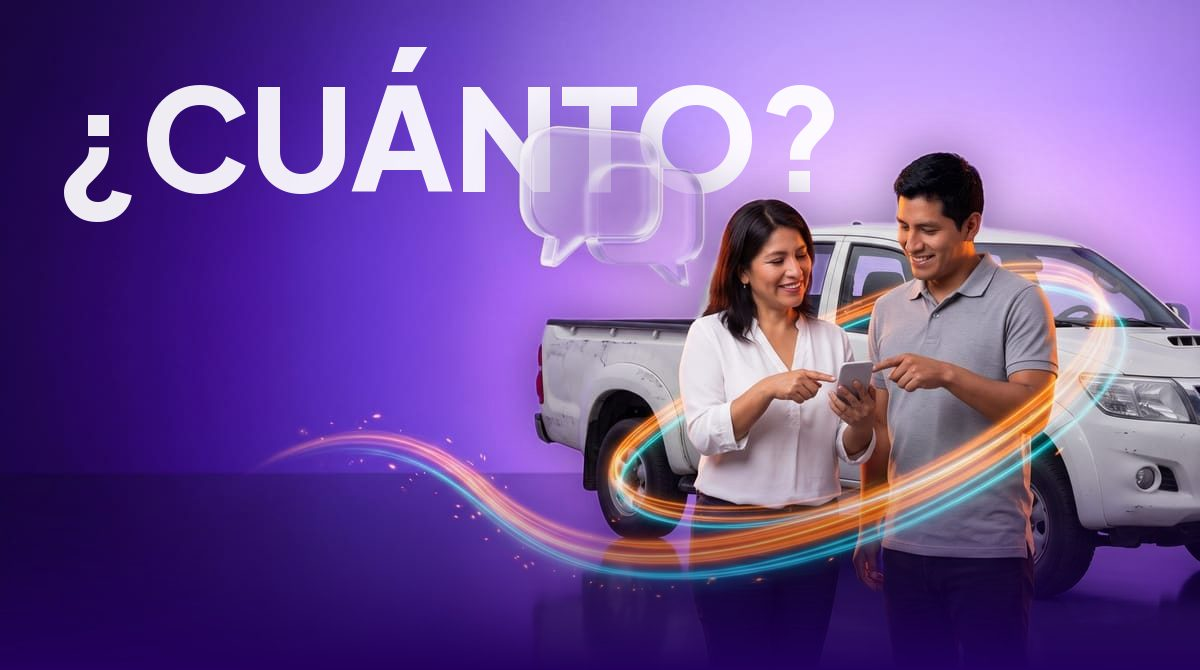
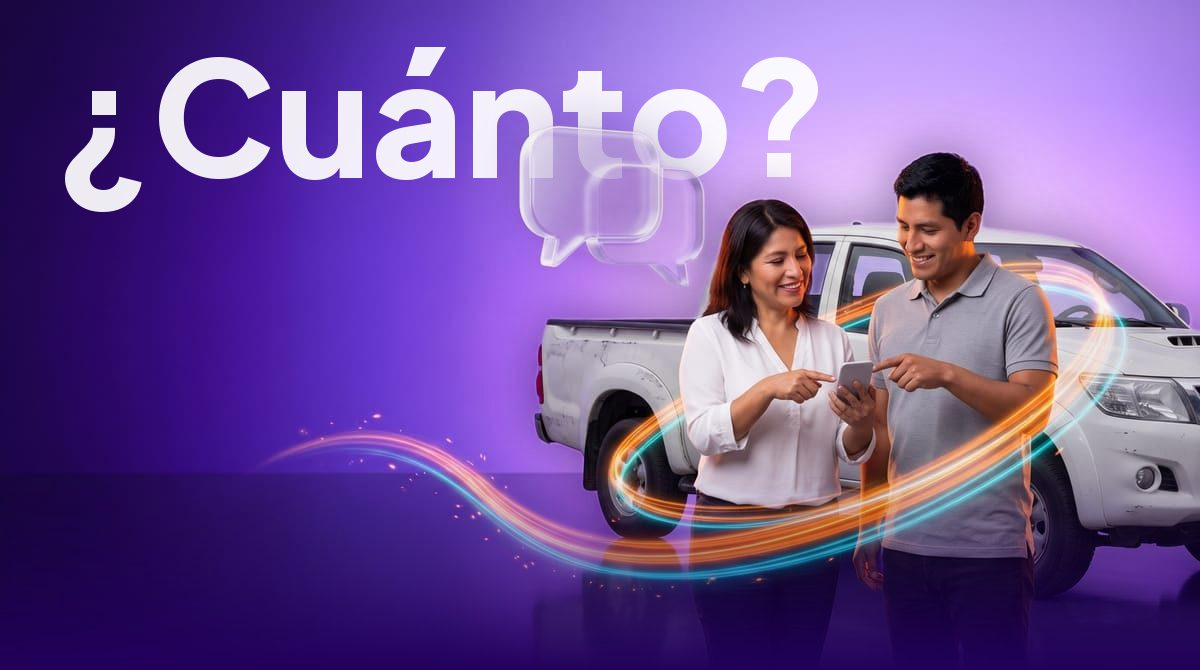
feat(correos): Valoriza — palabras en tipo oración y pantallas reales del celular
Palabra gigante del hero en tipo oración (¿Cuánto?, Revende…). Sugerencia de
Julio: el cuerpo muestra el flujo de valorización en el celular con capturas
reales (formulario, resultado, Mi Garaje, propuestas, responder) junto a la
lista; en el correo 4, tira de 3 celulares paso a paso.

Changed region(s): [[0.0308, 0.0597, 0.7092, 0.3284]]

diff --git a/src/emails/boletines/campanaValoriza.ts b/src/emails/boletines/campanaValoriza.ts
@@ -93,16 +93,32 @@ const p = (html: string, o: { size?: number; color?: string; align?: string } = 
 const b = (t: string) => `<b style="color:${DS.v700};">${t}</b>`;
 const HOLA = p('Hola {{Nombre usuario.Ejem: Gabriel Bruno}},');
 
-/** Título de sección: antetítulo naranja + título violeta (jerarquía del Index). */
-const title = (kicker: string, text: string) => row(`<p style="margin:0;font-family:${F};font-size:12px;line-height:16px;font-weight:800;letter-spacing:0.1em;text-transform:uppercase;color:${DS.orange};">${kicker}</p><h2 style="margin:6px 0 0;font-family:${F};font-size:22px;line-height:28px;font-weight:800;letter-spacing:-0.02em;color:${DS.v700};">${text}</h2>`, '0 28px');
-
-/** Filas con ícono de vidrio (estilo «Empresas y vendedores»). `steps` antepone «Paso n». */
-function rows(items: [Icono, string, string][], steps = false): string {
-  const r = items.map(([ic, t, d], i) => `<tr><td class="ds-in" style="padding:16px 20px;${i ? `border-top:1px solid ${DS.divider};` : ''}animation-delay:${0.1 + i * 0.12}s;">${T()}<tr>
-<td width="60" valign="middle"><div class="ds-pop" style="display:inline-block;padding:8px;border-radius:16px;background-color:${DS.lav};animation-delay:${0.25 + i * 0.12}s;">${icon(ic)}</div></td>
-<td valign="middle" style="padding-left:16px;font-family:${F};">${steps ? `<div style="font-size:11px;line-height:14px;font-weight:800;letter-spacing:0.1em;text-transform:uppercase;color:${DS.orange};">Paso ${i + 1}</div>` : ''}<div style="margin-top:${steps ? 3 : 0}px;font-size:16px;line-height:22px;font-weight:800;letter-spacing:-0.01em;color:${DS.v700};">${t}</div><div style="margin-top:3px;font-size:14px;line-height:20px;color:${DS.muted};">${d}</div></td>
+/**
+ * Celular con una pantalla REAL de VMC (capturas del flujo, cel/*.png) junto a la lista:
+ * el producto se ve, no se describe. En móvil el celular queda arriba, centrado.
+ */
+function cel(img: string, alt: string, kicker: string, head: string, items: [Icono, string, string][]): string {
+  const li = items.map(([ic, t, d], i) => `<tr><td class="ds-in" style="padding:${i ? 14 : 0}px 0 0;animation-delay:${0.2 + i * 0.12}s;">${T()}<tr>
+<td width="44" valign="top"><div style="display:inline-block;padding:4px;border-radius:12px;background-color:${DS.lav};">${icon(ic, 32)}</div></td>
+<td valign="top" style="padding-left:12px;font-family:${F};"><div style="font-size:15px;line-height:20px;font-weight:800;color:${DS.v700};">${t}</div><div style="margin-top:2px;font-size:14px;line-height:20px;color:${DS.muted};">${d}</div></td>
 </tr></table></td></tr>`).join('');
-  return row(`${T(`bgcolor="#ffffff" style="border-radius:20px;border:1px solid ${DS.divider};box-shadow:${DS_SHADOW};"`)}${r}</table>`, '0 16px');
+  return row(`${T(`bgcolor="${DS.lav}" style="border-radius:24px;background-image:linear-gradient(135deg,#f5f0ff 0%,#ffffff 70%);border:1px solid ${DS.divider};"`)}<tr>
+<td class="ds-stack ds-cel" width="46%" align="center" valign="middle" style="padding:20px 0 12px 12px;"><img class="ds-zoom" src="${IMG}/cel/${img}" alt="${alt}" width="230" border="0" style="display:block;width:230px;max-width:100%;height:auto;margin:0 auto;"></td>
+<td class="ds-stack ds-cel-copy" width="54%" valign="middle" style="padding:24px 24px 24px 8px;font-family:${F};">
+<p style="margin:0;font-size:12px;line-height:16px;font-weight:800;letter-spacing:0.1em;text-transform:uppercase;color:${DS.orange};">${kicker}</p>
+<h2 style="margin:6px 0 18px;font-family:${F};font-size:22px;line-height:28px;font-weight:800;letter-spacing:-0.02em;color:${DS.v700};">${head}</h2>
+${T()}${li}</table>
+</td></tr></table>`, '0 16px');
+}
+
+/** Tira de 3 celulares: el recorrido completo en pantallas reales, paso a paso. */
+function cels(items: [string, string, string, string][]): string {
+  const c = items.map(([img, alt, t, d], i) => `<td class="ds-in" width="33%" align="center" valign="top" style="padding:0 4px;font-family:${F};animation-delay:${0.1 + i * 0.15}s;">
+<img src="${IMG}/cel/${img}" alt="${alt}" width="176" border="0" style="display:block;width:100%;max-width:176px;height:auto;margin:0 auto;">
+<div style="margin-top:6px;font-size:11px;line-height:14px;font-weight:800;letter-spacing:0.1em;text-transform:uppercase;color:${DS.orange};">Paso ${i + 1}</div>
+<div style="margin-top:3px;font-size:16px;line-height:21px;font-weight:800;color:${DS.v700};">${t}</div>
+<div style="margin-top:3px;font-size:13px;line-height:18px;color:${DS.muted};">${d}</div></td>`).join('');
+  return row(`${T()}<tr>${c}</tr></table>`, '0 12px');
 }
 
 /** Nota referencial: ícono de fecha + texto, en lavanda. */
@@ -147,6 +163,8 @@ const RESPONSIVE = `<style>
 table[width="600"],td[width="600"]{width:100%!important;box-sizing:border-box}
 .ds-hero-copy{padding:4px 22px 28px!important}
 .ds-stack{display:block!important;width:100%!important;box-sizing:border-box}
+.ds-cel{padding:24px 0 0!important}
+.ds-cel-copy{padding:16px 24px 26px!important}
 td.ds-stack[width="4%"]{height:14px!important}
 .ds-h1{font-size:30px!important;line-height:34px!important}
 }
@@ -180,8 +198,7 @@ const DEFS: Def[] = [
     body: [
       HOLA, gap(8),
       p(`El vendedor publica un precio, pero tú puedes enviarle tu propuesta. Con una valorización, ${b('sabes cuánto proponer')}.`),
-      gap(28), title('Antes de proponer', 'Tres ventajas de valorizar'), gap(14),
-      rows([['precio', 'Sabes cuánto proponer', 'Tu propuesta parte de un valor de referencia.'], ['compras', 'Detectas oportunidades', 'Ves si el precio está por debajo de su valor.'], ['negociaciones', 'Negocias con argumentos', 'Si llega una contrapropuesta, sabes si te conviene.']]),
+      gap(28), cel('resultado.png', 'Pantalla de resultado de una valorización en VMC', 'Antes de proponer', 'Tu valorización, en tu celular', [['precio', 'Sabes cuánto proponer', 'Tu propuesta parte de un valor de referencia.'], ['compras', 'Detectas oportunidades', 'Ves si el precio está por debajo de su valor.'], ['negociaciones', 'Negocias con argumentos', 'Si llega una contrapropuesta, sabes si te conviene.']]),
       gap(24), note(REF),
       gap(32), closing('valorizaciones', 'Antes de proponer, valoriza', 'Gratis, en minutos y desde tu celular.', 'Valorizar un auto', VALORIZA_URL),
       gap(24), ps('Valorizar en VMC es gratis, siempre.'),
@@ -197,8 +214,7 @@ const DEFS: Def[] = [
     body: [
       HOLA, gap(8),
       p(`El precio correcto no se adivina. ${b('Una valorización te da un punto de partida')} para poner tu auto a la venta.`),
-      gap(28), title('Antes de publicar', 'Tres ventajas de valorizar'), gap(14),
-      rows([['valorizaciones', 'Un precio con sustento', 'Según el estado y el recorrido de tu auto.'], ['precio', 'Ni regalado ni estancado', 'Ni tan bajo que pierdas, ni tan alto que no se venda.'], ['vender', 'Negocias con confianza', 'Sabes si aceptar, rechazar o contraproponer.']]),
+      gap(28), cel('resultado.png', 'Pantalla de resultado de una valorización en VMC, con el botón Publicar', 'Antes de publicar', 'Sabes cuánto vale. Luego, publicas', [['valorizaciones', 'Un precio con sustento', 'Según el estado y el recorrido de tu auto.'], ['precio', 'Ni regalado ni estancado', 'Ni tan bajo que pierdas, ni tan alto que no se venda.'], ['vender', 'Negocias con confianza', 'Sabes si aceptar, rechazar o contraproponer.']]),
       gap(24), note(REF),
       gap(32), closing('vender', 'Pide con sustento', 'Conoce el valor de referencia de tu auto antes de publicarlo.', 'Valorizar mi auto', VALORIZA_URL),
       gap(24), ps('Valorizar es gratis y no te obliga a vender.'),
@@ -219,8 +235,7 @@ const DEFS: Def[] = [
         { tag: 'Auto A', chips: ['45,000 km', 'Mantenimiento al día', 'Sin choques'], value: 'Más alto', pct: 86, high: true },
         { tag: 'Auto B', chips: ['140,000 km', 'Sin historial', 'Golpes por reparar'], value: 'Más bajo', pct: 46, high: false },
       ]),
-      gap(28), title('La diferencia', 'Lo que más mueve el valor'), gap(14),
-      rows([['km', 'El recorrido', 'Cuántos kilómetros tiene.'], ['verificado', 'El estado', 'Carrocería, pintura y mecánica.'], ['fecha', 'El mantenimiento', 'Si está al día y documentado.']]),
+      gap(28), cel('formulario.png', 'Formulario de valorización de VMC con año y kilómetros', 'La diferencia', 'Lo que más mueve el valor', [['km', 'El recorrido', 'Cuántos kilómetros tiene.'], ['verificado', 'El estado', 'Carrocería, pintura y mecánica.'], ['fecha', 'El mantenimiento', 'Si está al día y documentado.']]),
       gap(32), closing('km', '¿Cuánto vale el tuyo?', 'Tu estado y tu recorrido, no una tabla genérica.', 'Valorizar mi auto', VALORIZA_URL),
       gap(24), ps('Por eso una tabla genérica no te dice cuánto vale el tuyo. Una valorización, sí. Y es gratis.'),
     ],
@@ -236,7 +251,7 @@ const DEFS: Def[] = [
       HOLA, gap(8),
       p(`Todo en un mismo lugar, ${b('desde Mi Garaje')}:`),
       gap(18),
-      rows([['valorizaciones', 'Valoriza', 'Gratis y en minutos, desde tu celular.'], ['docs', 'Guarda', 'Tu valorización queda en Mi Garaje.'], ['publicar', 'Publica', 'Como oferta negociable, cuando decidas vender.']], true),
+      cels([['formulario.png', 'Formulario de valorización', 'Valoriza', 'Gratis, desde tu celular.'], ['resultado.png', 'Resultado de la valorización con Guardar y Publicar', 'Guarda', 'Queda en Mi Garaje.'], ['propuestas.png', 'Propuestas recibidas en Mi Garaje', 'Publica', 'Y recibe propuestas.']]),
       gap(24), note(REF),
       gap(32), closing('docs', 'Empieza por valorizar', 'Queda guardada en Mi Garaje para cuando decidas publicar.', 'Valorizar mi auto', VALORIZA_URL),
       gap(16), link('¿Ya valorizaste? Publica tu auto aquí', PUBLICAR_URL),
@@ -252,8 +267,7 @@ const DEFS: Def[] = [
     body: [
       HOLA, gap(8),
       p(`Ya conoces VMC como comprador. Ahora es también ${b('tu canal para vender')}: compra, valoriza y vuelve a vender en un mismo lugar.`),
-      gap(28), title('Tu nuevo ciclo', 'Compra, valoriza y vende'), gap(14),
-      rows([['compras', 'Compra', 'Encuentra la oportunidad en VMC.'], ['valorizaciones', 'Valoriza', 'Conoce su valor de referencia, gratis.'], ['crecimiento', 'Vende', 'Publícalo como oferta negociable.']], true),
+      gap(28), cel('mi-garaje.png', 'Mi Garaje en VMC con Publica tu vehículo y Valoriza tu vehículo', 'Tu nuevo ciclo', 'Compra, valoriza y vende', [['compras', 'Compra', 'Encuentra la oportunidad en VMC.'], ['valorizaciones', 'Valoriza', 'Conoce su valor de referencia, gratis.'], ['crecimiento', 'Vende', 'Publícalo como oferta negociable.']]),
       gap(32), closing('crecimiento', 'Tu auto, frente a compradores de VMC', 'Publica y deja que las propuestas lleguen a ti.', 'Publicar mi auto', PUBLICAR_URL),
       gap(24), ps('Antes de publicar, valoriza: un precio con sustento vende mejor.'),
     ],
@@ -269,7 +283,7 @@ const DEFS: Def[] = [
       HOLA, gap(8),
       p(`Sin anuncios en mil sitios ni llamadas a cualquier hora: ${b('todo pasa en Mi Garaje')}. Así funciona:`),
       gap(18),
-      rows([['precio', 'Recibe propuestas', 'Los compradores te dicen cuánto pagarían.'], ['verificado', 'Tú decides', 'Acepta, rechaza o haz una contrapropuesta.'], ['negociaciones', 'Responde preguntas', 'Los compradores te pueden escribir antes de proponer.']]),
+      cel('responder.png', 'Pantalla de una propuesta con Aceptar y Contraproponer', 'Así funciona', 'Las propuestas llegan a Mi Garaje', [['precio', 'Recibe propuestas', 'Los compradores te dicen cuánto pagarían.'], ['verificado', 'Tú decides', 'Acepta, rechaza o haz una contrapropuesta.'], ['negociaciones', 'Responde preguntas', 'Los compradores te pueden escribir antes de proponer.']]),
       gap(32), closing('publicar', 'Publica tu auto en VMC', 'Y recibe propuestas en Mi Garaje.', 'Publicar mi auto', PUBLICAR_URL),
       gap(16), link('¿No sabes a cuánto publicarlo? Valorízalo gratis', VALORIZA_URL),
     ],
@@ -284,8 +298,7 @@ const DEFS: Def[] = [
     body: [
       HOLA, gap(8),
       p(`Publicar con un precio al azar es la forma más rápida de perder tiempo o perder plata. ${b('Valorizar primero')} te da un punto de partida.`),
-      gap(28), title('De tu garaje a la venta', 'Así vendes en VMC'), gap(14),
-      rows([['valorizaciones', 'Valoriza', 'Conoce el valor de referencia de tu auto, gratis.'], ['publicar', 'Publica', 'Como oferta negociable, con tu precio.'], ['negociaciones', 'Recibe propuestas', 'Acepta, rechaza o haz una contrapropuesta.']], true),
+      gap(28), cel('formulario.png', 'Formulario de valorización de VMC', 'De tu garaje a la venta', 'Así vendes en VMC', [['valorizaciones', 'Valoriza', 'Conoce el valor de referencia de tu auto, gratis.'], ['publicar', 'Publica', 'Como oferta negociable, con tu precio.'], ['negociaciones', 'Recibe propuestas', 'Acepta, rechaza o haz una contrapropuesta.']]),
       gap(24), note(REF),
       gap(32), closing('precio', '¿A cuánto publicarías tu auto?', 'Descúbrelo antes de ponerlo a la venta.', 'Valorizar mi auto', VALORIZA_URL),
       gap(16), link('¿Ya sabes tu precio? Publica tu auto aquí', PUBLICAR_URL),
